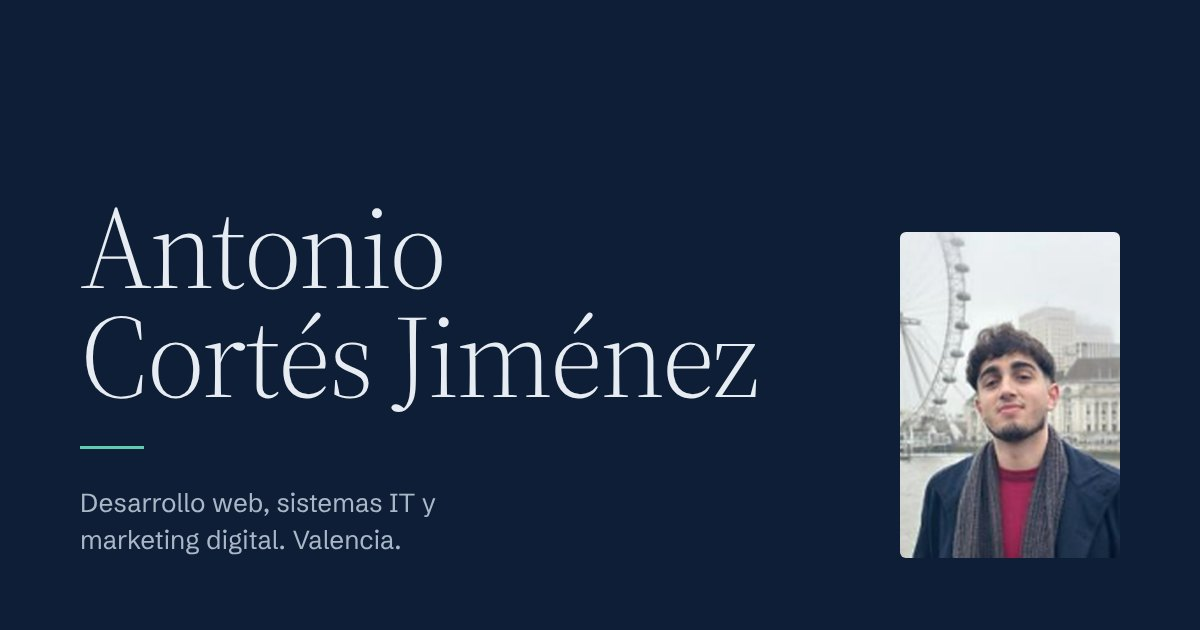
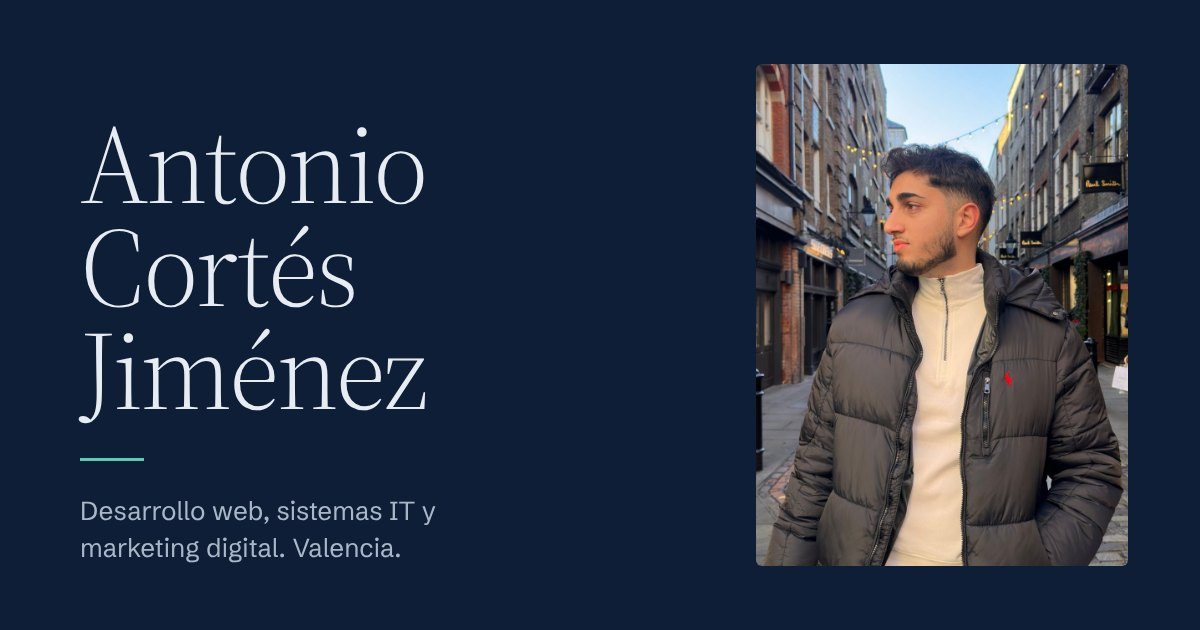
Foto nueva en la portada y en la imagen para redes
- Retrato en alta resolución, sin metadatos
- La foto pasa arriba a la derecha, junto al nombre
- README sin Vercel: instrucciones para GitHub Pages

Claude-Session: https://claude.ai/code/session_011Ry7oGUjcddMs9oUFkXTiy

Changed region(s): [[0.0617, 0.0905, 0.9558, 0.9048], [0.0617, 0.7841, 0.37, 0.9048], [0.4625, 0.4825, 0.4933, 0.5127]]

diff --git a/assets/css/styles.css b/assets/css/styles.css
@@ -46,7 +46,7 @@
   --fs-lg: clamp(1.5rem, 1.2rem + 1vw, 1.875rem);
   --fs-xl: clamp(2rem, 1.4rem + 2.4vw, 3rem);
   --fs-2xl: clamp(2.5rem, 1.6rem + 3.6vw, 4.25rem);
-  --fs-display: clamp(3.5rem, 1rem + 9.6vw, 10.5rem);
+  --fs-display: clamp(3.5rem, 1rem + 8.4vw, 9.5rem);
 
   /* Espaciado y layout */
   --gutter: clamp(1.25rem, 4vw, 3rem);
@@ -255,9 +255,9 @@ button { font: inherit; color: inherit; cursor: pointer; }
 
 .hero__grid {
   display: grid;
-  grid-template-columns: minmax(0, 1fr) clamp(140px, 16vw, 230px);
+  grid-template-columns: minmax(0, 1fr) clamp(160px, 22vw, 320px);
   grid-template-areas:
-    "name name"
+    "name photo"
     "body photo"
     "meta photo";
   column-gap: clamp(1.5rem, 4vw, 4rem);
@@ -284,7 +284,6 @@ button { font: inherit; color: inherit; cursor: pointer; }
   animation: rise 1.1s var(--ease-out) 0.1s forwards;
 }
 .hero__name .line:nth-child(2) > span { animation-delay: 0.22s; }
-.hero__name .line:nth-child(2) { padding-left: clamp(0rem, 8vw, 9rem); }
 
 .hero__photo {
   grid-area: photo;
@@ -296,9 +295,9 @@ button { font: inherit; color: inherit; cursor: pointer; }
 }
 .hero__photo img {
   width: 100%;
-  aspect-ratio: 500 / 740;
+  aspect-ratio: 3 / 4;
   object-fit: cover;
-  filter: saturate(0.85) contrast(1.05);
+  object-position: 50% 30%;
 }
 
 .hero__body {
@@ -335,13 +334,12 @@ button { font: inherit; color: inherit; cursor: pointer; }
 
 @media (max-width: 760px) {
   .hero__grid {
-    grid-template-columns: minmax(0, 1fr) 96px;
+    grid-template-columns: minmax(0, 1fr) 120px;
     grid-template-areas:
       "name name"
       "body body"
       "meta photo";
   }
-  .hero__name .line:nth-child(2) { padding-left: 0; }
   .hero__photo { align-self: end; }
 }
 

diff --git a/index.html b/index.html
@@ -66,7 +66,7 @@
         </h1>
 
         <figure class="hero__photo">
-          <img src="assets/img/antonio.jpg" alt="Retrato de Antonio Cortés" width="500" height="740" fetchpriority="high">
+          <img src="assets/img/antonio.jpg" alt="Antonio Cortés en una calle de Londres" width="900" height="1200" fetchpriority="high">
         </figure>
 
         <div class="hero__body">

diff --git a/README.md b/README.md
@@ -23,17 +23,14 @@ assets/
   - Sin captura: usa un panel `<div class="panel panel--navy|sea|slate|paper">`.
 - **Colores y tipografía:** variables en `:root` al inicio de `styles.css`.
 
-## Publicar en Vercel
+## Publicar
 
-1. vercel.com → *Add New* → *Project* → importar `TonioLive/portfolio`.
-2. Framework preset: **Other**. Sin build command. Output: raíz.
-3. *Deploy*. Cada push a `main` se publica solo.
-4. Dominio propio: *Settings → Domains* y añadir los registros DNS que indique Vercel.
+Son archivos estáticos: sirven en cualquier hosting que entregue HTML.
 
-> No usar GitHub Pages en este repo: la cuenta ya tiene `dubedition.es` en la web principal y el portfolio saldría en `dubedition.es/portfolio`.
+**GitHub Pages:** *Settings → Pages → Deploy from a branch → `main` / root*.
+Ojo: la cuenta ya tiene `dubedition.es` en la web principal (`toniolive.github.io`), así que sin dominio propio el portfolio saldría en `dubedition.es/portfolio`. Con un dominio propio, se añade un archivo `CNAME` con el dominio y los registros DNS de GitHub Pages en el registrador.
 
 ## Pendiente
 
-- Foto en alta resolución (la actual sale del CV y es pequeña): reemplazar `assets/img/antonio.jpg` (vertical, 1000×1480 aprox.).
 - Enlace a LinkedIn en la sección de contacto.
 - Cuando haya URL definitiva: poner la URL absoluta en `og:image`, añadir `<link rel="canonical">` y `sitemap.xml`.
